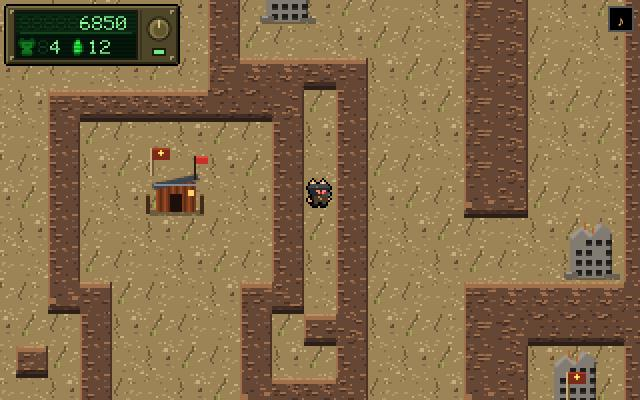
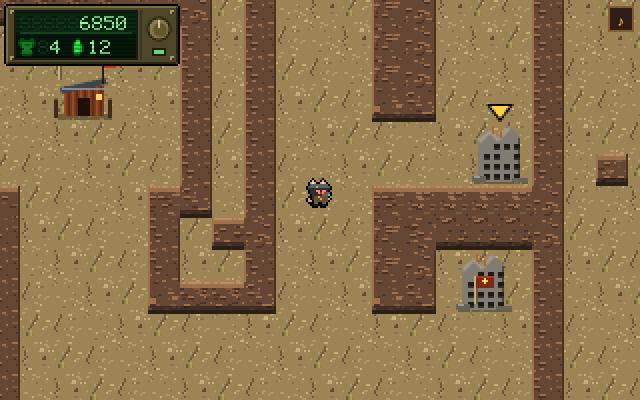
Screenshots retaken after the critique fixes
The quieter ruins walls, the brighter ranger Poom, and the map's arrow
over the next place to go.

diff --git a/README.md b/README.md
@@ -36,7 +36,7 @@ A gamepad works too, and on a touch screen the controls appear on screen.
 
 ### The Glow
 
-![The world map: Poom on a dusty road between rock ridges, a Scrapper camp flying the banner of a place already cleared, and ruined towers further off; the wrist-computer scorebox reads 6850 in green](screenshots/map.png)
+![The world map: Poom on a dusty road between rock ridges, a cleared Scrapper camp and a cleared ruin flying their banners, and a bobbing amber arrow over the ruined towers of Old Litterburg, the next place he can reach; the wrist-computer scorebox reads 6850 in green](screenshots/map.png)
 
 ![Old Litterburg: ranger Poom on a broken concrete street under a hazy sun, a Glowmouse beside him, a faded billboard and rusted girders above, tins of tuna to collect along the top](screenshots/ruins.png)
 
